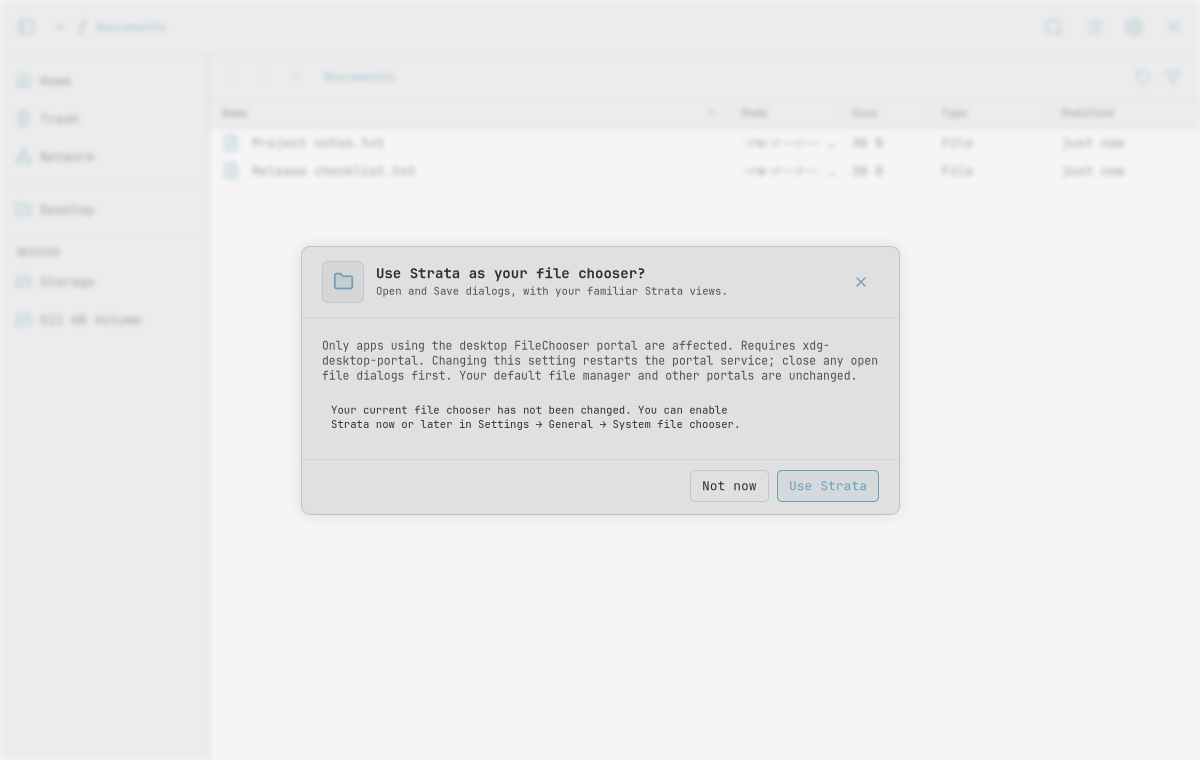
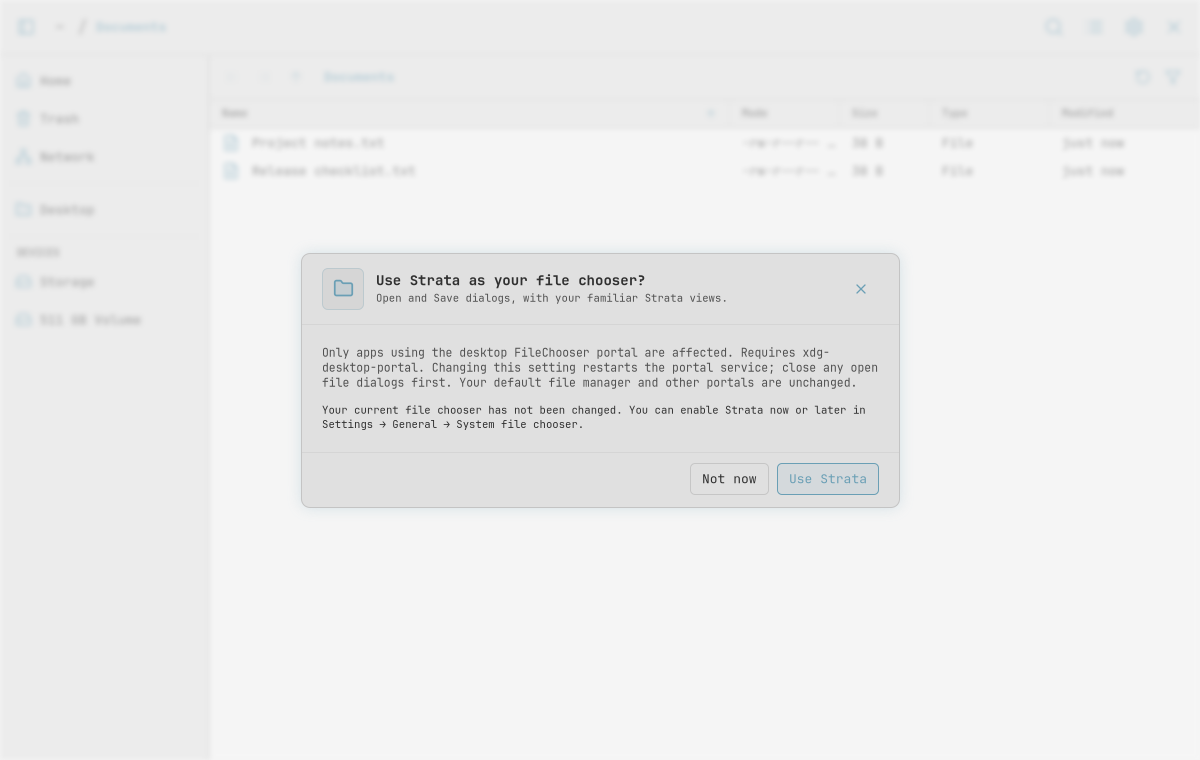
fix(portal): align setup copy and show a success indicator
Refs #120

Changed region(s): [[0.2467, 0.4539, 0.74, 0.575], [0.2775, 0.3329, 0.6167, 0.3934], [0.5858, 0.6053, 0.74, 0.6658]]

diff --git a/src/style.css b/src/style.css
@@ -698,6 +698,11 @@ headerbar menubutton.header-action > button:focus-visible {
   padding: 7px 9px;
 }
 
+.portal-setup-dialog .form-message:not(.error) {
+  padding: 0;
+  color: @theme_text;
+}
+
 .form-message.error,
 .authentication-error {
   background: alpha(@theme_danger, 0.1);

diff --git a/src/ui/portal_preferences.rs b/src/ui/portal_preferences.rs
@@ -11,6 +11,9 @@ use super::{
 };
 use crate::{assets::icons, portal_setup};
 
+#[cfg(test)]
+mod tests;
+
 thread_local! {
     static OFFER_SCHEDULED: Cell<bool> = const { Cell::new(false) };
     static SETUP_RUNNING: Cell<bool> = const { Cell::new(false) };
@@ -86,6 +89,8 @@ struct Dialog {
     cancel: glib::WeakRef<gtk::Button>,
     close: glib::WeakRef<gtk::Button>,
     status: glib::WeakRef<gtk::Label>,
+    description: glib::WeakRef<gtk::Label>,
+    success: glib::WeakRef<gtk::Image>,
     loading: glib::WeakRef<gtk::Spinner>,
     busy: Rc<Cell<bool>>,
     enable: Cell<Option<bool>>,
@@ -117,15 +122,34 @@ impl Dialog {
 
     fn message(&self, message: &str, error: bool) {
         if let Some(status) = self.status.upgrade() {
-            status.set_text(&super::controls::wrap_dialog_text(
-                message,
-                super::controls::MESSAGE_DIALOG_WIDTH_CHARS,
-            ));
+            status.set_text(message);
             if error {
                 status.add_css_class("error");
             } else {
                 status.remove_css_class("error");
             }
+        }
+    }
+
+    fn complete(&self, message: &str) {
+        self.finished.set(true);
+        self.message(message, false);
+        if let Some(description) = self.description.upgrade() {
+            description.set_visible(false);
+        }
+        if let Some(success) = self.success.upgrade() {
+            success.set_visible(true);
+        }
+        if let Some(status) = self.status.upgrade() {
+            status.set_xalign(0.5);
+            status.set_justify(gtk::Justification::Center);
+        }
+        if let Some(confirm) = self.confirm.upgrade() {
+            confirm.set_label("Done");
+            confirm.grab_focus();
+        }
+        if let Some(cancel) = self.cancel.upgrade() {
+            cancel.set_visible(false);
         }
     }
 
@@ -223,17 +247,7 @@ impl Dialog {
             SETUP_RUNNING.set(false);
             dialog.set_busy(false);
             match result {
-                Ok(Ok(message)) => {
-                    dialog.finished.set(true);
-                    dialog.message(&message, false);
-                    if let Some(confirm) = dialog.confirm.upgrade() {
-                        confirm.set_label("Done");
-                        confirm.grab_focus();
-                    }
-                    if let Some(cancel) = dialog.cancel.upgrade() {
-                        cancel.set_visible(false);
-                    }
-                }
+                Ok(Ok(message)) => dialog.complete(&message),
                 Ok(Err(error)) => dialog.message(&error, true),
                 Err(error) => {
                     dialog.message(&format!("File chooser setup failed: {error:?}"), true)
@@ -244,9 +258,13 @@ impl Dialog {
 }
 
 fn show_dialog(parent: &gtk::Window, offer: bool) {
-    let Some(overlay) = parent.child().and_downcast::<gtk::Overlay>() else {
-        return;
-    };
+    if let Some(dialog) = build_dialog(parent, offer) {
+        dialog.load();
+    }
+}
+
+fn build_dialog(parent: &gtk::Window, offer: bool) -> Option<Rc<Dialog>> {
+    let overlay = parent.child().and_downcast::<gtk::Overlay>()?;
     let root = overlay.child().and_downcast::<BlurBin>();
     let layout: ModalLayout = message_dialog_layout(
         icons::FOLDER,
@@ -271,6 +289,10 @@ fn show_dialog(parent: &gtk::Window, offer: bool) {
     description.set_max_width_chars(super::controls::MESSAGE_DIALOG_WIDTH_CHARS as i32);
     description.add_css_class("settings-option-description");
     layout.body.append(&description);
+    let success = crate::assets::primary_icon(icons::CIRCLE_CHECK, 48);
+    success.set_halign(gtk::Align::Center);
+    success.set_visible(false);
+    layout.body.append(&success);
     let status = gtk::Label::new(Some("Checking your current chooser…"));
     status.set_xalign(0.0);
     status.set_wrap(true);
@@ -294,6 +316,8 @@ fn show_dialog(parent: &gtk::Window, offer: bool) {
         cancel: layout.cancel.downgrade(),
         close: layout.close.downgrade(),
         status: status.downgrade(),
+        description: description.downgrade(),
+        success: success.downgrade(),
         loading: layout.loading.downgrade(),
         busy,
         enable: Cell::new(None),
@@ -320,5 +344,5 @@ fn show_dialog(parent: &gtk::Window, offer: bool) {
         root.set_blurred(true);
     }
     overlay.add_overlay(&layer);
-    dialog.load();
+    Some(dialog)
 }

diff --git a/src/ui/portal_preferences/tests.rs b/src/ui/portal_preferences/tests.rs
@@ -1,0 +1,84 @@
+// SPDX-License-Identifier: GPL-3.0-or-later
+
+use super::*;
+use std::time::Instant;
+
+fn settle() {
+    let context = glib::MainContext::default();
+    let deadline = Instant::now() + Duration::from_millis(150);
+    while Instant::now() < deadline {
+        while context.pending() {
+            context.iteration(false);
+        }
+        std::thread::sleep(Duration::from_millis(5));
+    }
+}
+
+fn text_left(label: &gtk::Label, relative_to: &gtk::Widget) -> f32 {
+    let (x, y) = label.layout_offsets();
+    label
+        .compute_point(relative_to, &gtk::graphene::Point::new(x as f32, y as f32))
+        .expect("label position")
+        .x()
+}
+
+#[test]
+#[ignore = "requires a GTK display and isolated XDG directories; run this test alone"]
+fn setup_copy_aligns_and_success_replaces_the_explanation() {
+    gtk::init().expect("GTK display");
+    gio::resources_register_include!("strata.gresource").expect("bundled icons");
+    crate::ui::prepare_portal_ui();
+    for offer in [true, false] {
+        let overlay = gtk::Overlay::new();
+        let window = gtk::Window::builder()
+            .default_width(1000)
+            .default_height(700)
+            .child(&overlay)
+            .build();
+        window.present();
+        let dialog = build_dialog(&window, offer).expect("setup dialog");
+        dialog.message("Your current file chooser has not been changed. You can enable Strata now or later in Settings → General → System file chooser.", false);
+        settle();
+        let description = dialog.description.upgrade().expect("explanation");
+        let status = dialog.status.upgrade().expect("status");
+        let success = dialog.success.upgrade().expect("success icon");
+        assert!(
+            (text_left(&description, overlay.upcast_ref())
+                - text_left(&status, overlay.upcast_ref()))
+            .abs()
+                <= 1.0,
+            "both paragraphs share the same text inset"
+        );
+        assert!(description.is_mapped());
+        assert!(!success.is_visible());
+        dialog.message("Setup failed; your previous chooser is unchanged.", true);
+        assert!(status.has_css_class("error"));
+        assert!(description.is_visible());
+        assert!(!success.is_visible());
+
+        dialog.complete(
+            "Installed Strata as the per-user file chooser.\nConfiguration: /example/portals.conf",
+        );
+        settle();
+        assert!(!description.is_visible());
+        assert!(success.is_mapped());
+        let icon = success.paintable().expect("bundled success icon");
+        crate::assets::set_primary_icon_color("#aabbcc");
+        assert_ne!(success.paintable().expect("recolored success icon"), icon);
+        crate::assets::set_primary_icon_color("#8bc9eb");
+        assert!(!status.has_css_class("error"));
+        assert!(status.text().contains("\nConfiguration:"));
+        let icon_bounds = success.compute_bounds(&overlay).expect("icon bounds");
+        let status_bounds = status.compute_bounds(&overlay).expect("status bounds");
+        assert!(icon_bounds.y() + icon_bounds.height() <= status_bounds.y());
+        assert!((icon_bounds.center().x() - status_bounds.center().x()).abs() <= 1.0);
+        assert_eq!(status.justify(), gtk::Justification::Center);
+        assert_eq!(
+            dialog.confirm.upgrade().expect("done").label().as_deref(),
+            Some("Done")
+        );
+        assert!(!dialog.cancel.upgrade().expect("cancel").is_visible());
+        assert!(dialog.finished.get());
+        window.destroy();
+    }
+}

diff --git a/src/assets.rs b/src/assets.rs
@@ -20,6 +20,7 @@ pub mod icons {
     pub const ARROW_UP: &str = "strata-arrow-up";
     pub const ARROW_UP_NARROW_WIDE: &str = "strata-arrow-up-narrow-wide";
     pub const CHECK: &str = "strata-check";
+    pub const CIRCLE_CHECK: &str = "strata-circle-check";
     pub const CHECK_ON_PRIMARY: &str = "strata-check-on-primary";
     pub const CHEVRON_RIGHT: &str = "strata-chevron-right";
     pub const CLIPBOARD_PASTE: &str = "strata-clipboard-paste";

diff --git a/docs/screenshots/175/README.md b/docs/screenshots/175/README.md
@@ -12,7 +12,8 @@ After, captured using disposable sample files on a private D-Bus session:
 - `grid.png`: multiple selection across type groups in Grid.
 - `save-light.png`: Filter, Encoding, and Compress files on one compact row in Classic Light.
 - `savefiles-columns.png`: FileChooser v4 SaveFiles with Columns and choices.
-- `opt-in.png`, `opt-in-light.png`: the one-time, consent-only offer in Azure Glow and Classic Light.
+- `opt-in.png`, `opt-in-light.png`: the one-time, consent-only offer in Azure Glow and Classic Light, with matching paragraph insets.
+- `setup-success.png`, `setup-success-light.png`: the success state replaces the explanation with a theme-colored Lucide circle-check above the result.
 - `settings-integration.png`: permanent enable/restore access in Settings → General.
 
 The opt-in captures use isolated XDG directories and a private bus; service restart/reload commands were stubbed during installation/removal testing, so the installed desktop portal was never replaced.

diff --git a/THIRD_PARTY_LICENSES.md b/THIRD_PARTY_LICENSES.md
@@ -19,7 +19,7 @@ The font is distributed unmodified. Strata materializes the embedded font in its
 - Version: 1.35.0
 - Copyright: Lucide Contributors and Feather Icons contributors
 - License: ISC
-- Included assets: curated and namespaced SVG icons under `data/icons/scalable/actions/`
+- Included assets: curated and namespaced SVG icons under `data/icons/scalable/actions/`, including the `strata-circle-check.svg` setup-success indicator
 - Full license: [`data/licenses/Lucide-ISC.txt`](data/licenses/Lucide-ISC.txt)
 
 The SVGs retain Lucide geometry. Their foreground color was changed from `currentColor` to GTK's symbolic foreground color so GTK can recolor them according to the active theme.
